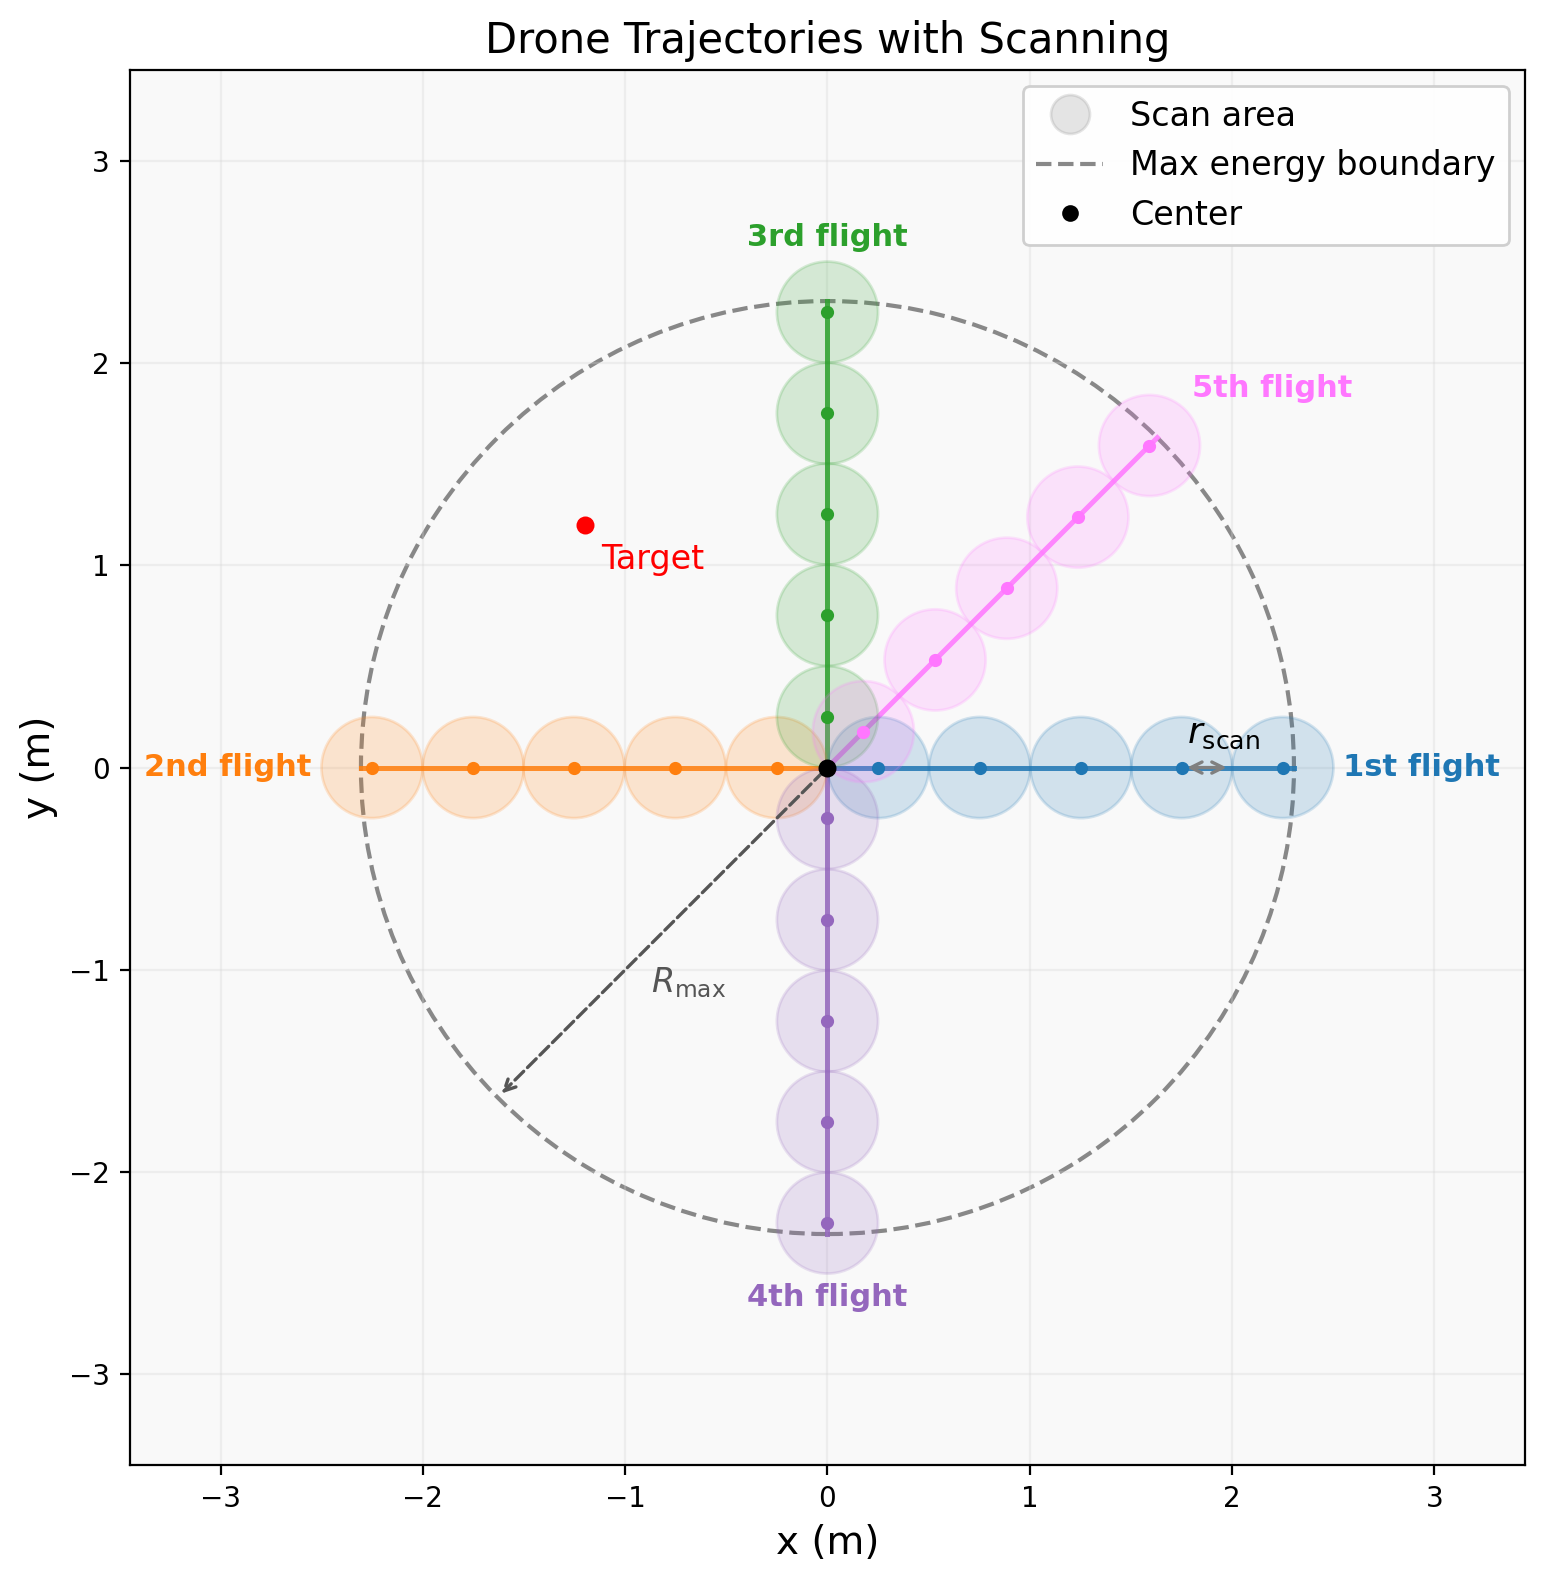
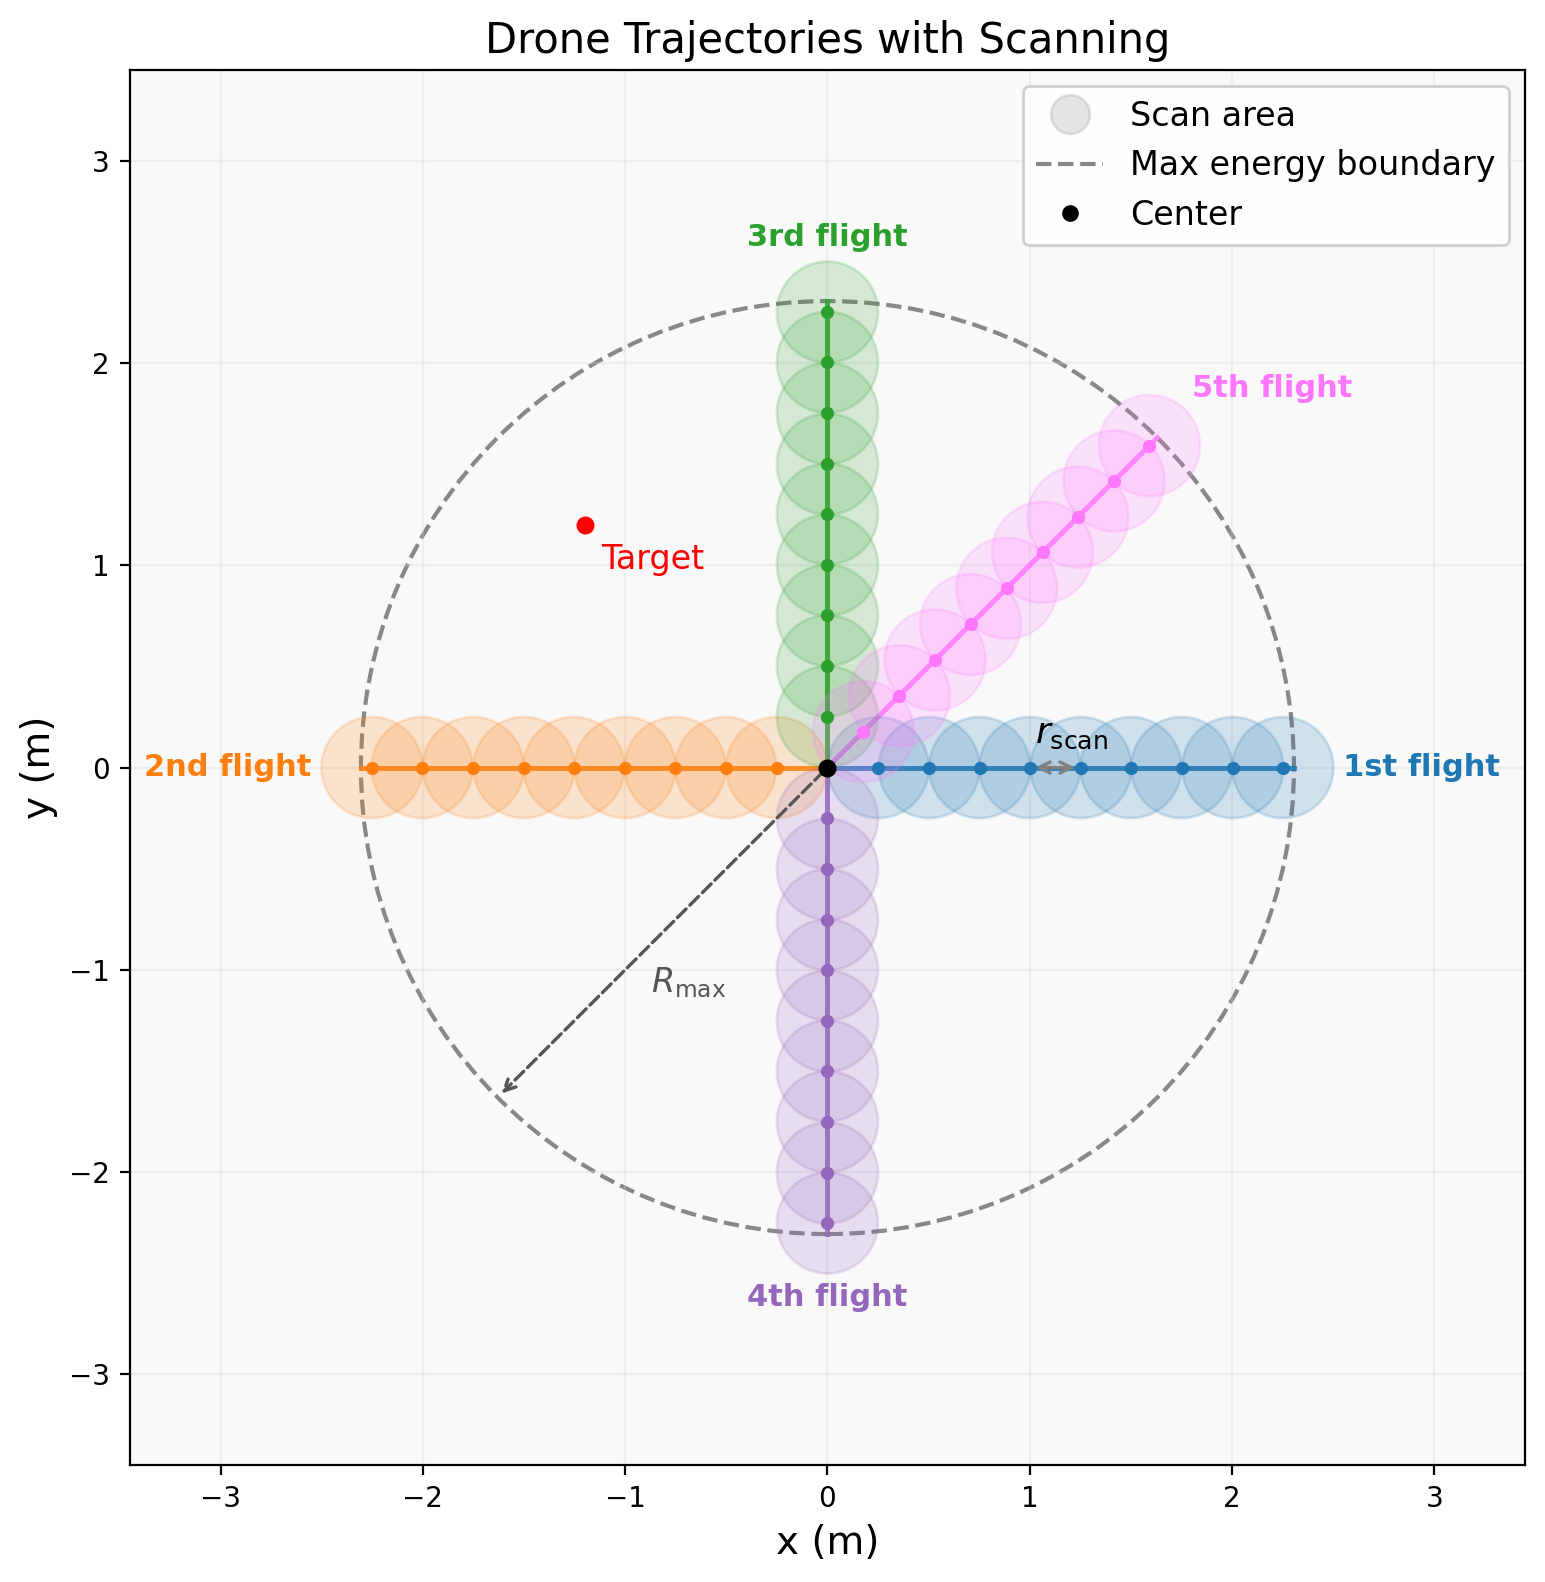
change spacing to radius

Changed region(s): [[0.2175, 0.1858, 0.8388, 0.5575], [0.4971, 0.5885, 0.5903, 0.7743]]

diff --git a/search_figure.py b/search_figure.py
@@ -108,7 +108,7 @@ def simulate_search_vector(angle_deg):
         cum_dist[i] = cum_dist[i-1] + np.hypot(x_traj[i] - x_traj[i-1], y_traj[i] - y_traj[i-1] )
         
     max_dist = cum_dist[-1]
-    stop_distances = np.arange(R_LIDAR, max_dist, 2 * R_LIDAR)
+    stop_distances = np.arange(R_LIDAR, max_dist, R_LIDAR)
 
     scan_stops = []
     for d in stop_distances:
